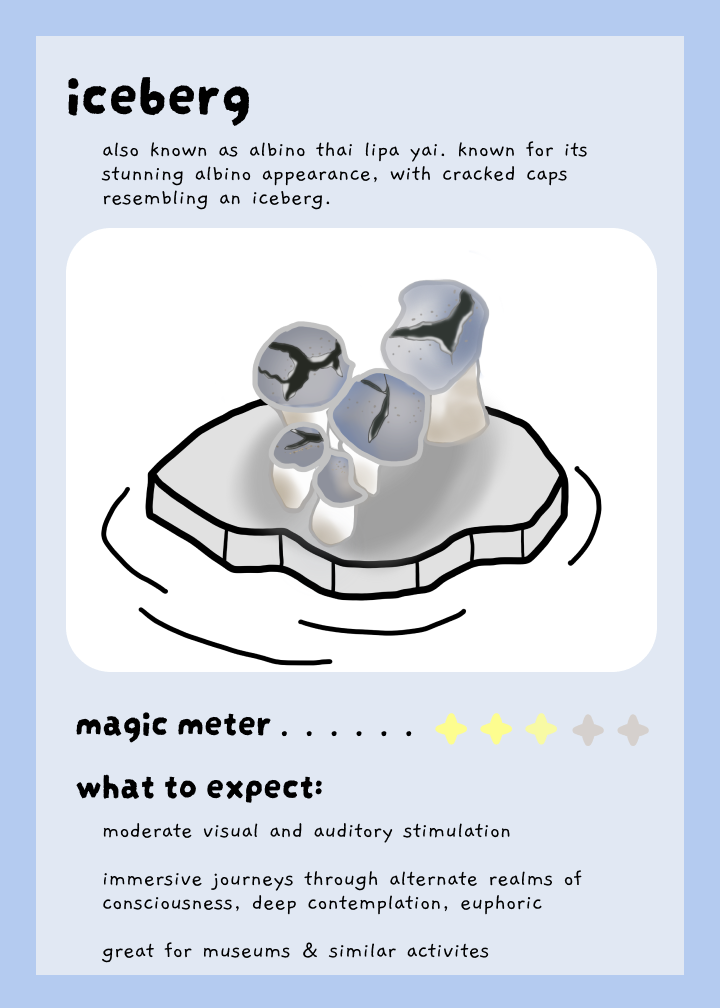
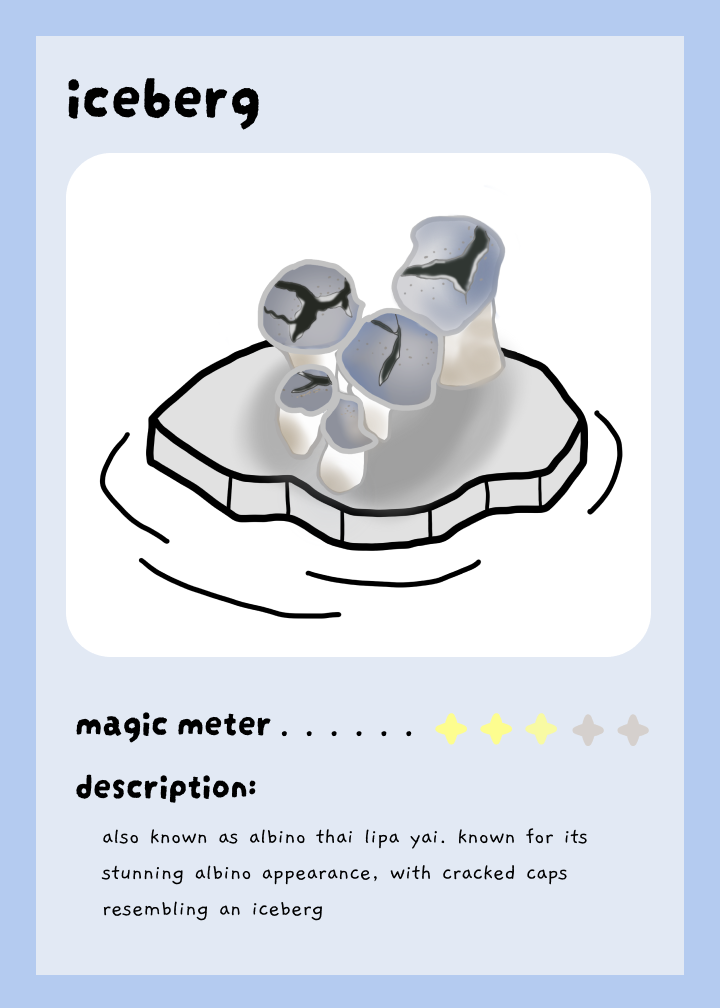
added v2 cards

Changed region(s): [[0.0917, 0.0615, 0.9167, 0.6766], [0.0917, 0.7688, 0.7944, 0.9534]]

diff --git a/index.html b/index.html
@@ -49,7 +49,7 @@
                 <img class="img-fluid" alt="iceberg" src="imgs/cards/iceberg.png">
             </div>    
             <div class="popup popup-3" data-toggle="modal" data-target="#modal-3">
-                <img class="img-fluid" alt="golden teacher" src="imgs/cards/golden teacher mushroom.png">
+                <img class="img-fluid" alt="golden teacher" src="imgs/cards/GT.png">
             </div>    
             <div class="popup popup-4" data-toggle="modal" data-target="#modal-4">
                 <img class="img-fluid" alt="pan cyan" src="imgs/cards/pan cyan.png">
@@ -62,11 +62,17 @@
         <h2>Unavailable</h2>
 
         <div class="container-gallery">
-            <div tabindex="-1" class="popup popup-1" data-toggle="modal" data-target="#modal-1">
-                <img class="img-fluid" alt="ape-r" src="imgs/cards/albino penis envy revert mushroom.png">
-            </div>                
+            <div tabindex="-1" class="popup popup-6" data-toggle="modal" data-target="#modal-6">
+                <img class="img-fluid" alt="VZ3" src="imgs/cards/VZ3.png">
+            </div>   
+            <div tabindex="-1" class="popup popup-7" data-toggle="modal" data-target="#modal-7">
+                <img class="img-fluid" alt="rusty-whyte" src="imgs/cards/rusty whyte.png">
+            </div>  
             <div tabindex="-1" class="popup popup-5" data-toggle="modal" data-target="#modal-5">
                 <img class="img-fluid" alt="yellow-umbo" src="imgs/cards/yellow umbo.png">
+            </div>  
+            <div tabindex="-1" class="popup popup-1" data-toggle="modal" data-target="#modal-1">
+                <img class="img-fluid" alt="ape-r" src="imgs/cards/aper.png">
             </div>    
         </div>
     </section>
@@ -81,7 +87,7 @@
             <div class="modal-dialog modal-dialog-centered modal-md">
                 <div class="modal-content">
                     <div class="modal-body">
-                        <img class="img-fluid" alt="ape-r.png" src="imgs/cards/albino penis envy revert mushroom.png">
+                        <img class="img-fluid" alt="ape-r.png" src="imgs/cards/aper.png">
                     </div>
                 </div>
             </div>
@@ -103,7 +109,7 @@
                 <div class="modal-content">
                     <div class="modal-body">
                         
-                        <img class="img-fluid" alt="golden teacher" src="imgs/cards/golden teacher mushroom.png">
+                        <img class="img-fluid" alt="golden teacher" src="imgs/cards/GT.png">
                     </div>
                 </div>
             </div>
@@ -131,14 +137,35 @@
             </div>
         </div>
 
+        <div class="modal" id="modal-6" tabindex="-1" aria-labelledby="modalLabel" aria-hidden="true">
+            <button type="button" class="btn btn-default close" id="btnclose" data-dismiss="modal"><img class="img-fluid" alt="close" src="imgs/close.png"></button>
+            <div class="modal-dialog modal-dialog-centered modal-md">
+                <div class="modal-content">
+                    <div class="modal-body">
+                        <img class="img-fluid" alt="VZ3" src="imgs/cards/VZ3.png">
+                    </div>
+                </div>
+            </div>
+        </div>
 
+        <div class="modal" id="modal-7" tabindex="-1" aria-labelledby="modalLabel" aria-hidden="true">
+            <button type="button" class="btn btn-default close" id="btnclose" data-dismiss="modal"><img class="img-fluid" alt="close" src="imgs/close.png"></button>
+            <div class="modal-dialog modal-dialog-centered modal-md">
+                <div class="modal-content">
+                    <div class="modal-body">
+                        <img class="img-fluid" alt="rusty-whyte" src="imgs/cards/rusty whyte.png">
+                    </div>
+                </div>
+            </div>
+        </div>
 
 
 <div class="footer-container">
     <div class="container">
       <footer class="py-5">
         <div class="nav justify-content-center border-bottom pb-3 mb-3">
-          <p>Thanks for visiting. Support Small Businesses :) </p>
+          <p>Thanks for visiting. Support Small Businesses</p>
+          <p style="flex-basis: 100%; text-align:center; font-size:0.8em; font-style: italic;">- Fun-Guy ;)</p>
         </div>
         <p class="text-center text-body-secondary">© 2023 Mother Mushroom, Inc</p>
       </footer>
